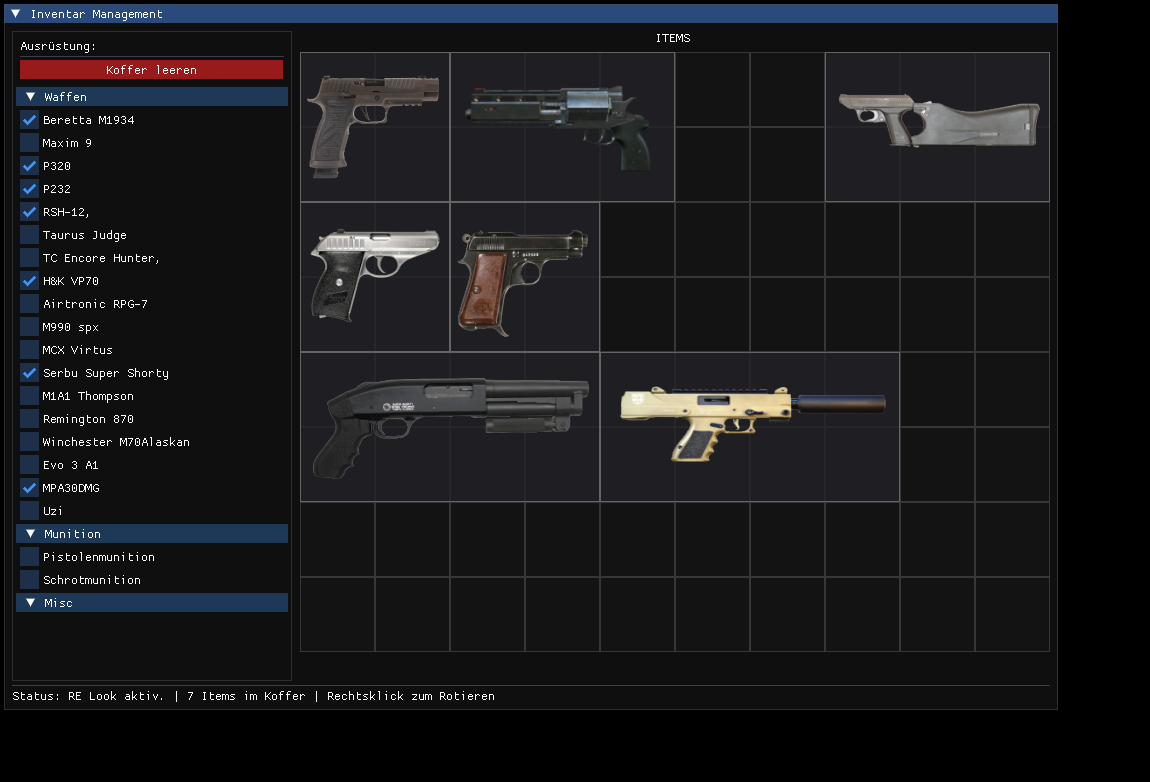
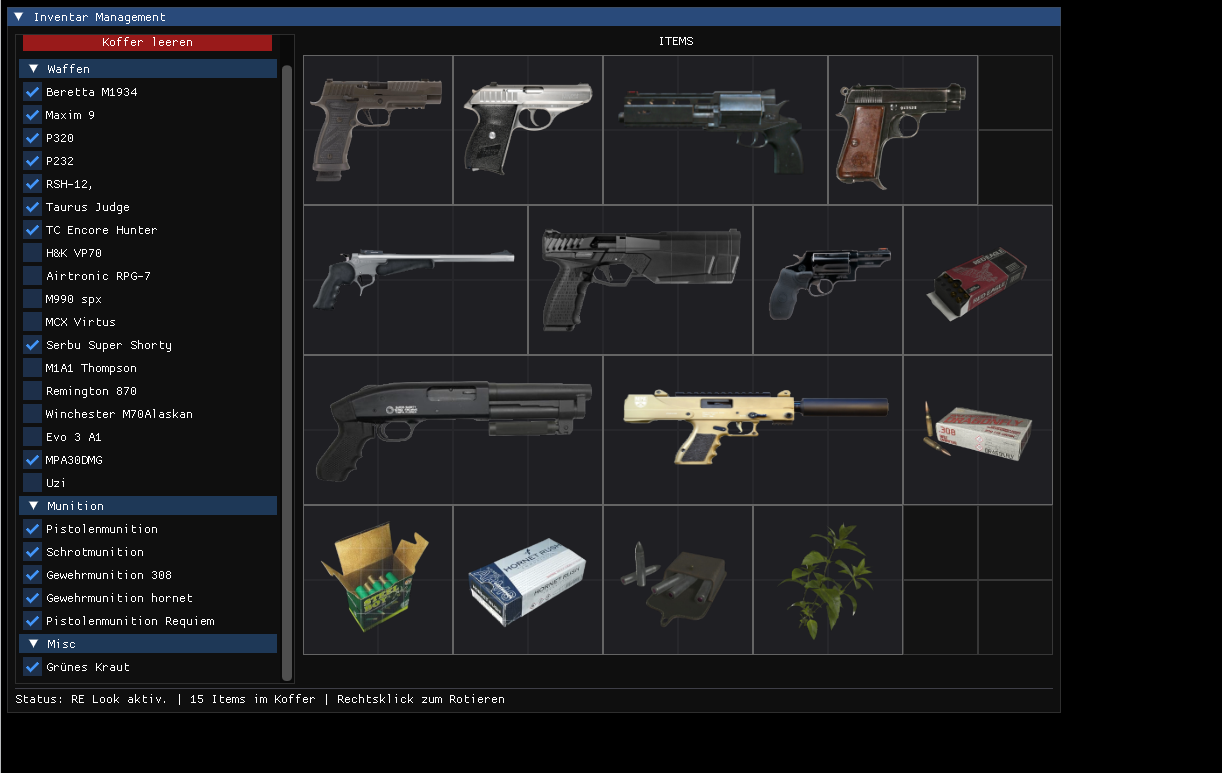
items added

diff --git a/src/main.cpp b/src/main.cpp
@@ -157,13 +157,13 @@ int main() {
     registerItem(new Weapon("P320", 2, 2, 100, 15), "img/handguns/P320.png", {"Waffen", "SIG Sauer", 15});
     registerItem(new Weapon("P232", 2, 2, 90, 8), "img/handguns/P232.png", {"Waffen", "Walther", 8});
     registerItem(new Weapon("RSH-12,", 3, 2, 200, 12), "img/handguns/rsh_12.png", {"Waffen", "RSh-12", 12});
-    registerItem(new Weapon("Taurus Judge", 3, 2, 110, 5), "img/handguns/TaurusJudgeLC.png", {"Waffen", "Taurus", 5});
-    registerItem(new Weapon("TC Encore Hunter,", 4, 2, 180, 1), "img/handguns/TC_Encore_Hunter.png", {"Waffen", "Thompson/Center", 1});
+    registerItem(new Weapon("Taurus Judge", 2, 2, 110, 5), "img/handguns/TaurusJudgeLC.png", {"Waffen", "Taurus", 5});
+    registerItem(new Weapon("TC Encore Hunter", 3, 2, 180, 1), "img/handguns/TC_Encore_Hunter.png", {"Waffen", "Thompson/Center", 1});
     registerItem(new Weapon("H&K VP70", 3, 2, 130, 10), "img/handguns/VP-70.png", {"Waffen", "Heckler & Koch", 10});
 
-    registerItem(new Weapon("Airtronic RPG-7", 4, 2, 500, 1), "img/rifles/Airtronic_RPG-7.png", {"Waffen", "Airtronic", 1});
+    registerItem(new Weapon("Airtronic RPG-7", 4, 2, 500, 1), "img/rifles/Airtronic_RPG7.png", {"Waffen", "Airtronic", 1});
     registerItem(new Weapon("M990 spx", 4, 2, 300, 15), "img/rifles/M990_spx.png", {"Waffen", "Beretta", 15});
-    registerItem(new Weapon("MCX Virtus", 4, 2, 220, 30), "img/rifles/MCX_VITRUS_14.png", {"Waffen", "SIG Sauer", 30});
+    registerItem(new Weapon("MCX Virtus", 4, 2, 220, 30), "img/rifles/MCX_VIRTUS_14.png", {"Waffen", "SIG Sauer", 30});
     registerItem(new Weapon("Serbu Super Shorty", 4, 2, 600, 3), "img/rifles/Mossberg_Serbu.png", {"Waffen", "Serbu Firearms", 3});
     registerItem(new Weapon("M1A1 Thompson", 4, 2, 250, 20), "img/rifles/M1A_JAE-100.png", {"Waffen", "Auto-Ordnance", 30});
     registerItem(new Weapon("Remington 870", 4, 2, 150, 8), "img/rifles/Remington870Short.png", {"Waffen", "Remington", 8});
@@ -173,11 +173,14 @@ int main() {
     registerItem(new Weapon("MPA30DMG", 4, 2, 250, 30), "img/submachine/MPA30DMG.png", {"Waffen", "MasterPiece Arms", 30});
     registerItem(new Weapon("Uzi", 4, 2, 180, 32), "img/submachine/Uzi-1.png", {"Waffen", "Izhmash", 32});
     
-    registerItem(new Ammo("Pistolenmunition", 1, 1, "9mm", 30), "img/ammo/ammo.png", {"Munition", "Umarex", 30});
-    registerItem(new Ammo("Schrotmunition", 1, 1, "12 Gauge", 15), "img/ammo/shells.png", {"Munition", "Winchester", 15});
+    registerItem(new Ammo("Pistolenmunition", 2, 2, "9mm", 30), "img/ammo/9mm.png", {"Munition", "Umarex", 30});
+    registerItem(new Ammo("Schrotmunition", 2, 2, "12 Gauge", 15), "img/ammo/shells.png", {"Munition", "Winchester", 15});
+    registerItem(new Ammo("Gewehrmunition 308", 2, 2, "7.62x51mm", 20), "img/ammo/308.png", {"Munition", "Remington", 20});
+    registerItem(new Ammo("Gewehrmunition hornet", 2, 2, "22 Hornet", 25), "img/ammo/hornet.png", {"Munition", "Winchester", 25});
+    registerItem(new Ammo("Pistolenmunition Requiem", 2, 2, "9mm", 15), "img/ammo/requiem.png", {"Munition", "Umarex", 15});
     
     // Beispiel für ein Misc Item (Angenommen du hast eine Klasse 'MiscItem' oder nutzt einfach Item)
-    // registerItem(new Item("Grünes Kraut", 1, 2), "img/misc/green_herb.png", {"Misc", "Arklay Mountains", 0});
+    registerItem(new Item("Grünes Kraut", 2, 2), "img/misc/herb.png", {"Misc", "Arklay Mountains", 0});
 
     // Hauptschleife: Läuft solange das Fenster offen ist (ca. 60 mal pro Sekunde)
     while (!glfwWindowShouldClose(window)) {
